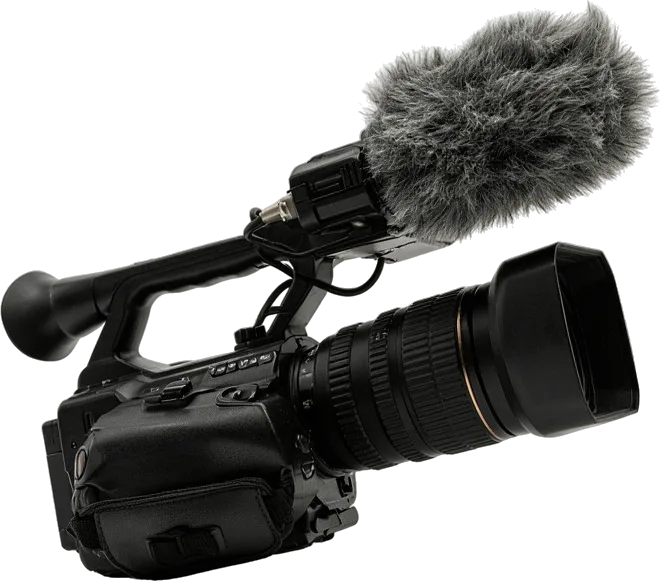
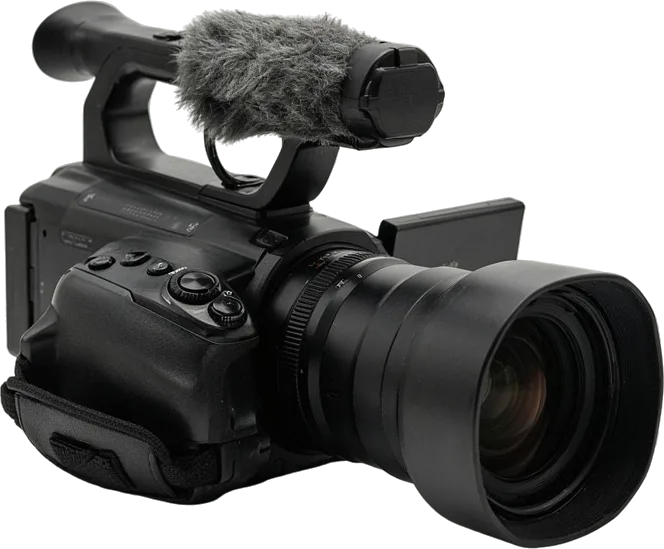
Photo & Video : forme orange du trace de la direction, nouvelle camera
- La forme orange n'est plus un disque : elle suit le tracé envoyé par la
  direction (haute à gauche, creux en haut à droite, grand arrondi à droite
  qui descend sous la bande), et dépasse davantage au-dessus qu'au-dessous.
- Nouvelle caméra, plus proche de la référence : corps à gauche, objectif
  tourné vers le visiteur, micro sur la poignée (664 × 549, 40 Ko, générée
  par IA puis détourée, aucune marque visible).

diff --git a/app/(site)/services/[slug]/page.js b/app/(site)/services/[slug]/page.js
@@ -189,7 +189,9 @@ export default async function PageService({ params }) {
             débordant au-dessus et au-dessous (maquette direction). Décor pur. */}
         {p.manifeste.camera && (
           <div className="manif-scene" aria-hidden="true">
-            <svg className="manif-scene__forme" viewBox="0 0 600 600">
+            {/* Forme libre dessinée par la direction : haute à gauche, creux en
+                haut à droite, grand arrondi à droite qui descend sous la bande. */}
+            <svg className="manif-scene__forme" viewBox="0 0 360 345" preserveAspectRatio="none">
               <defs>
                 <linearGradient id="manif-orange" x1="0" y1="0" x2="1" y2="1">
                   <stop offset="0" stopColor="#fd8534" />
@@ -198,10 +200,10 @@ export default async function PageService({ params }) {
               </defs>
               <path
                 fill="url(#manif-orange)"
-                d="M318 22c86 6 166 52 210 122 42 66 54 152 26 226-30 80-102 146-186 176-82 30-178 26-250-20C46 482 8 396 4 312 0 226 34 138 98 82 158 30 240 16 318 22Z"
+                d="M34 6C74 -6 122 10 142 48C162 90 192 118 242 126C302 136 354 152 358 212C362 274 326 330 248 340C176 348 98 344 50 300C10 262 -2 190 2 122C6 62 4 16 34 6Z"
               />
             </svg>
-            <img className="manif-scene__camera" src="/camera-photo-video.webp" alt="" width="660" height="581" loading="lazy" />
+            <img className="manif-scene__camera" src="/camera-photo-video.webp" alt="" width="664" height="549" loading="lazy" />
           </div>
         )}
         <div className="container">

diff --git a/app/globals.css b/app/globals.css
@@ -1584,13 +1584,15 @@ table.compare tbody tr:last-child th, table.compare tbody tr:last-child td { bor
 }
 .manif-scene {
   position: absolute; z-index: 1; pointer-events: none;
-  left: clamp(-2rem, 4vw - 3rem, 2rem); top: 50%; transform: translateY(-50%);
-  width: clamp(320px, 45vw, 640px); aspect-ratio: 1;
+  /* Proportions du tracé de la direction (360 × 345), un peu remonté : la
+     forme dépasse davantage au-dessus de la bande qu'au-dessous. */
+  left: 0; top: 50%; transform: translateY(-56%);
+  width: clamp(340px, 46vw, 640px); aspect-ratio: 360 / 345;
 }
 .manif-scene__forme { position: absolute; inset: 0; width: 100%; height: 100%; }
 .manif-scene__camera {
-  position: absolute; left: 8%; top: 50%; width: 88%; height: auto;
-  transform: translateY(-50%) rotate(-8deg);
+  position: absolute; left: 3%; top: 46%; width: 86%; height: auto;
+  transform: translateY(-50%) rotate(-12deg);
   filter: drop-shadow(0 22px 28px rgba(0,0,0,.45));
 }
 .svc-manifeste--camera .container { position: relative; z-index: 2; }
@@ -1609,7 +1611,7 @@ table.compare tbody tr:last-child th, table.compare tbody tr:last-child td { bor
   .svc-manifeste--camera { padding-top: 0; margin-top: clamp(6rem, 22vw, 9rem); }
   .manif-scene {
     position: relative; left: auto; top: auto; transform: none;
-    width: min(88%, 420px); aspect-ratio: 1.05; margin: calc(-1 * clamp(5rem, 20vw, 8rem)) auto 1.5rem;
+    width: min(88%, 420px); aspect-ratio: 360 / 345; margin: calc(-1 * clamp(5rem, 20vw, 8rem)) auto 1.5rem;
   }
   .svc-manifeste--camera .section-head { margin-inline: auto; }
 }
